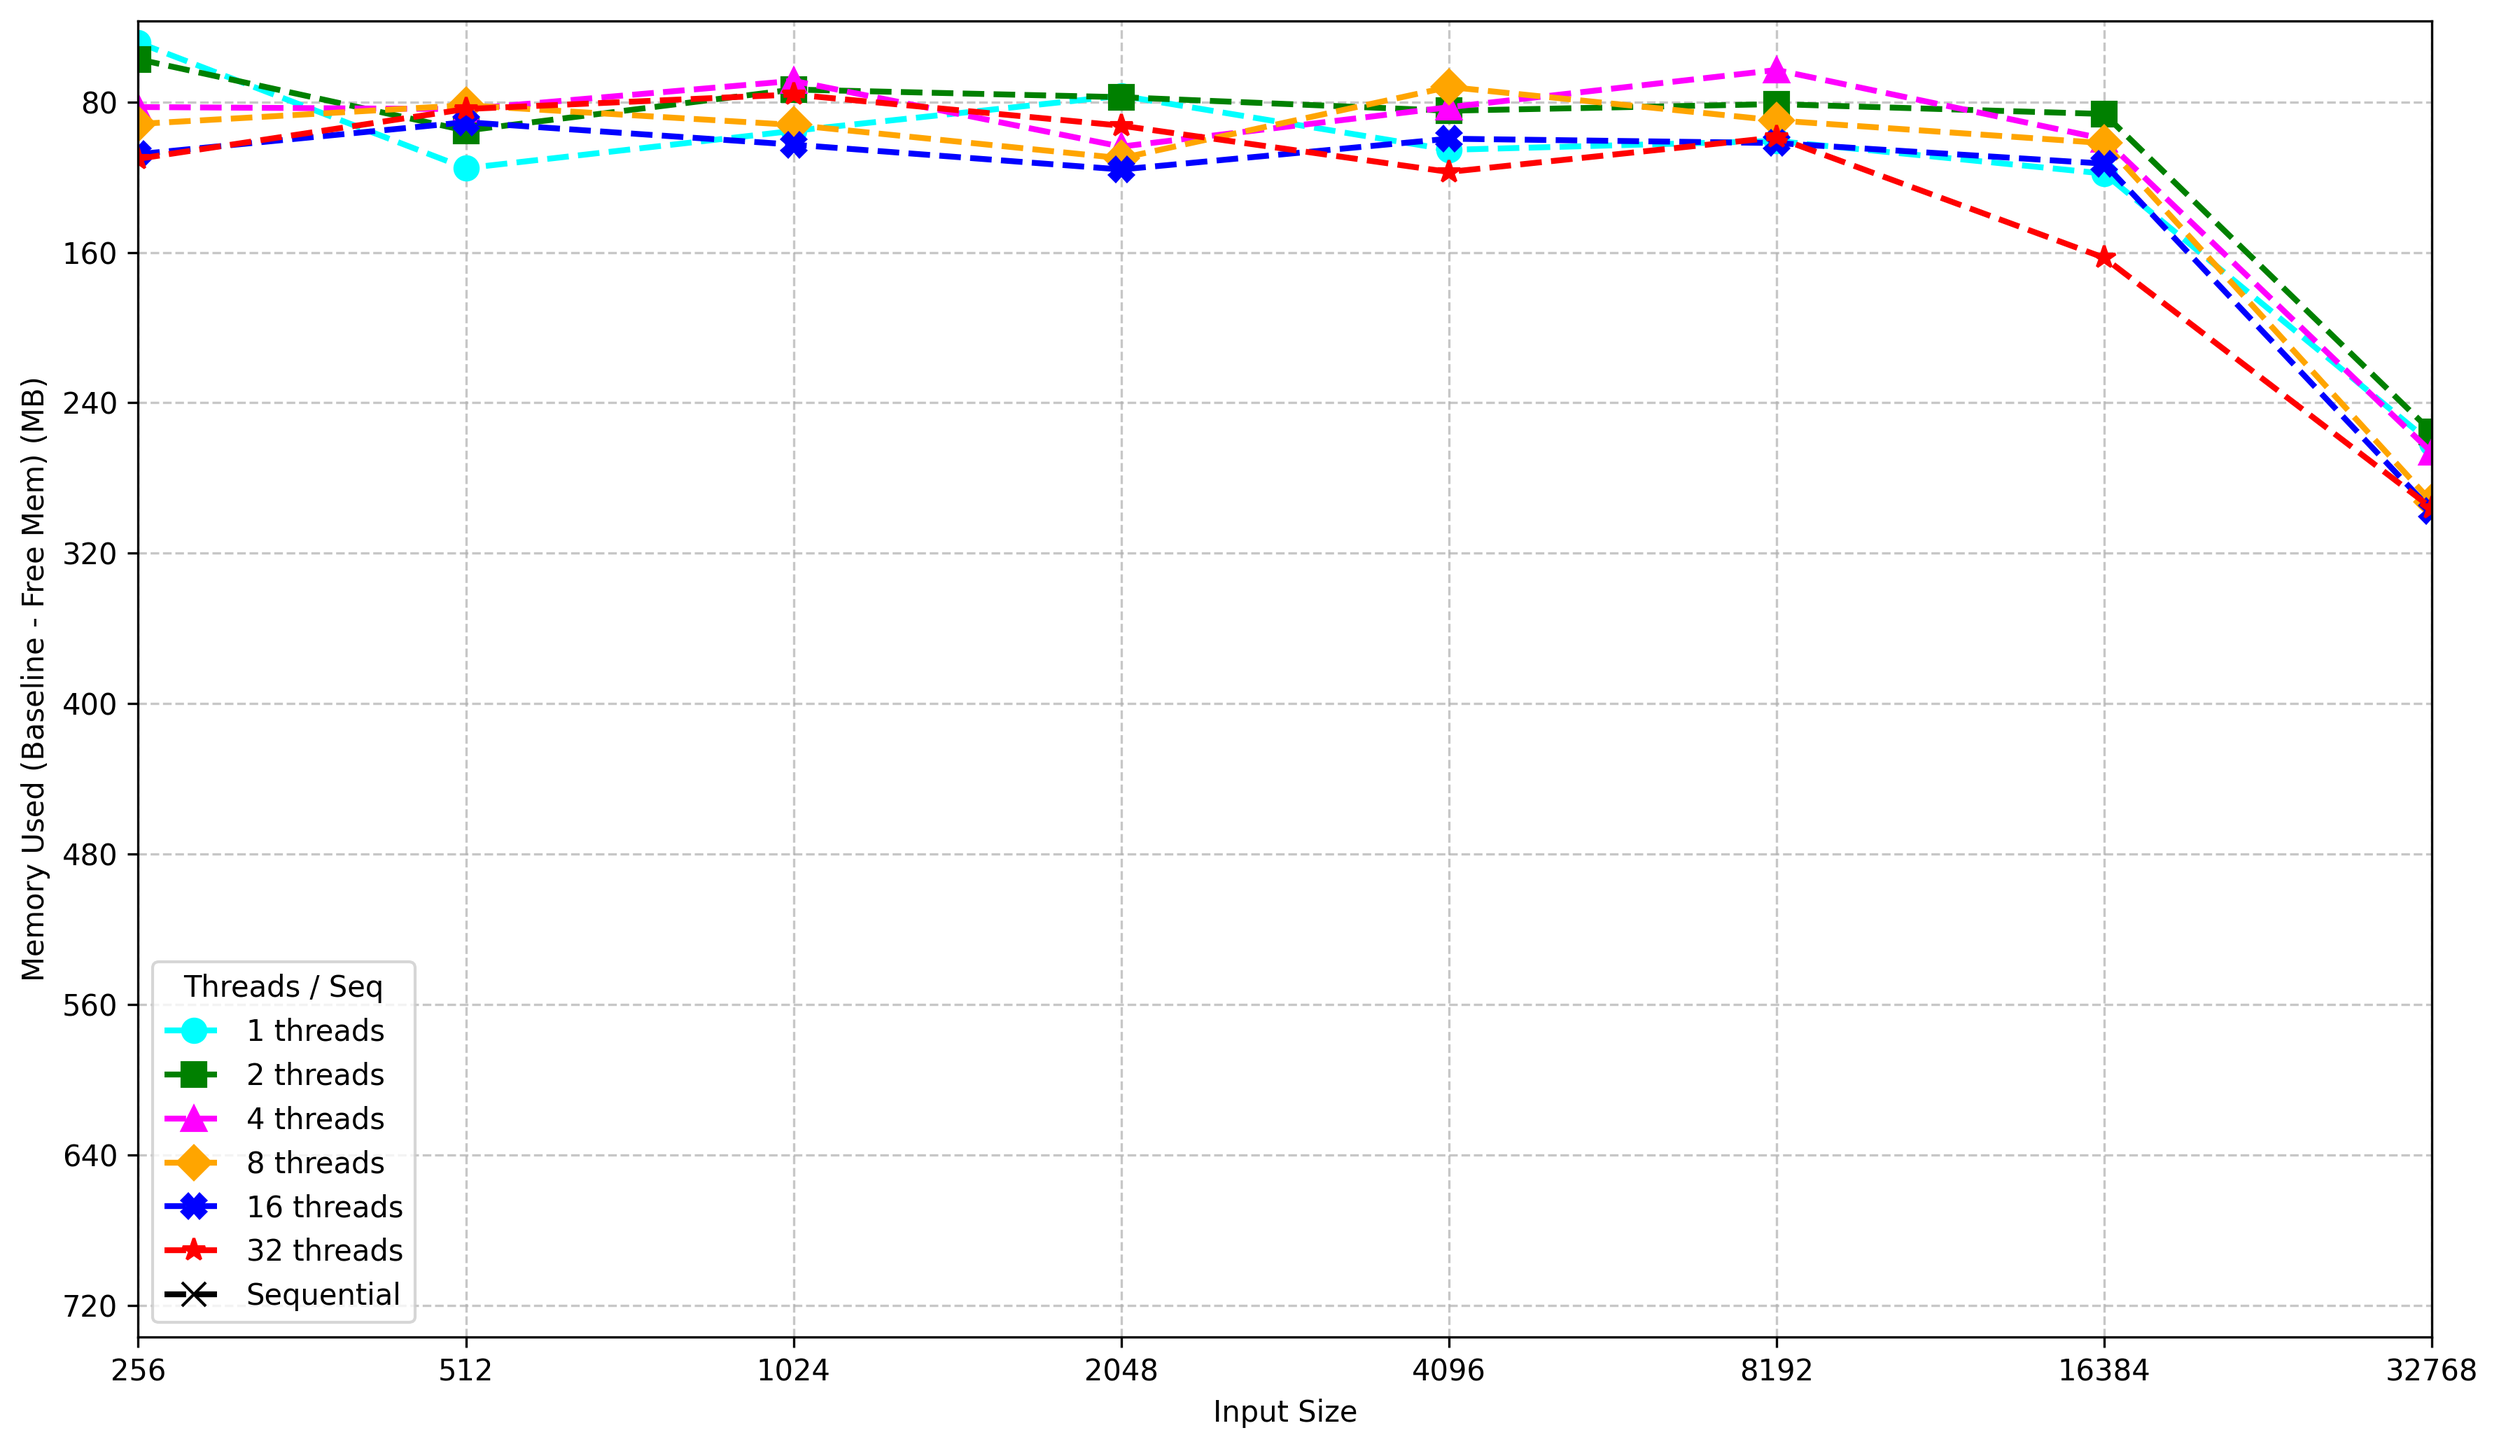
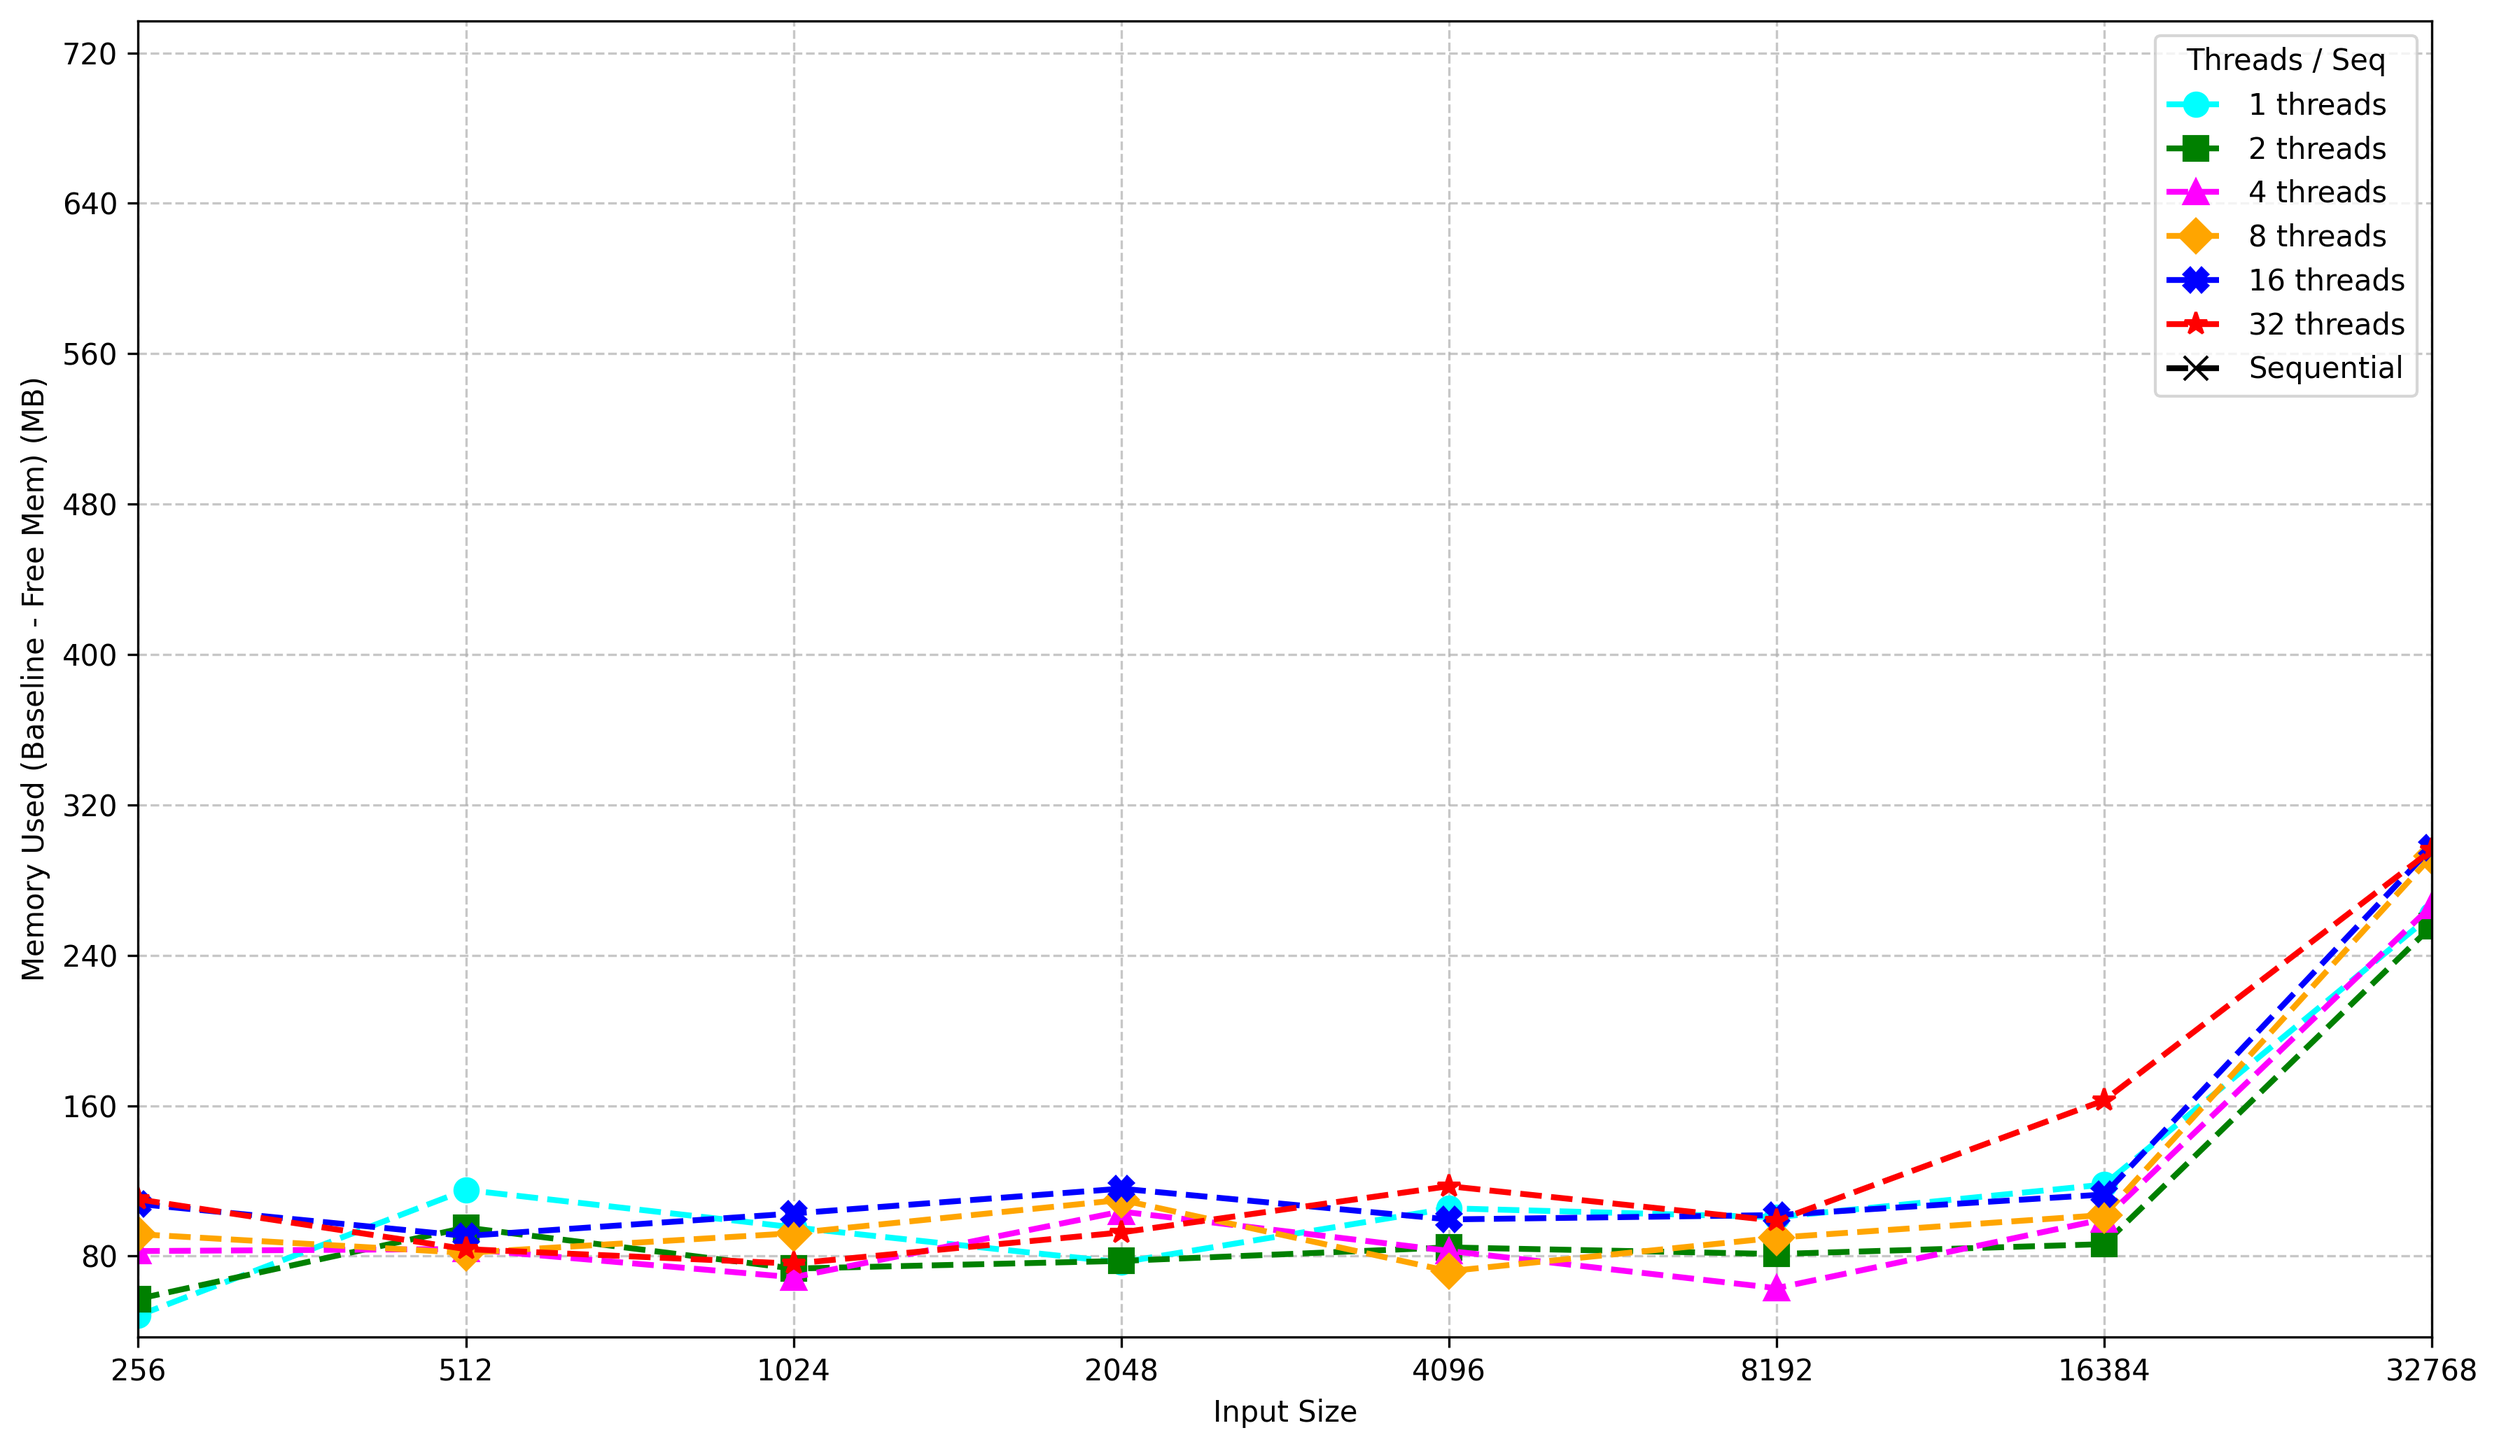
fixed free mem graphs being upside down

diff --git a/Assignment2/plots/new_plot_stuff.py b/Assignment2/plots/new_plot_stuff.py
@@ -1066,7 +1066,11 @@ output_dir=None, baseline_mem=None):
         ax.set_xticks(list(x_index.values()))
         ax.set_xticklabels(input_sizes)
         ax.set_xlim(0, len(input_sizes) - 1)
-        ax.set_ylim(y0, y1)
+
+        if metric == "free_mem" and baseline_subtract_true:
+            ax.set_ylim(y1, y0)
+        else:
+            ax.set_ylim(y0, y1)
         ax.yaxis.set_major_locator(ticker.MaxNLocator(nbins=10, prune='both'))
         ax.legend(title="Threads / Seq")
         ax.grid(True, linestyle='--', alpha=0.7)
